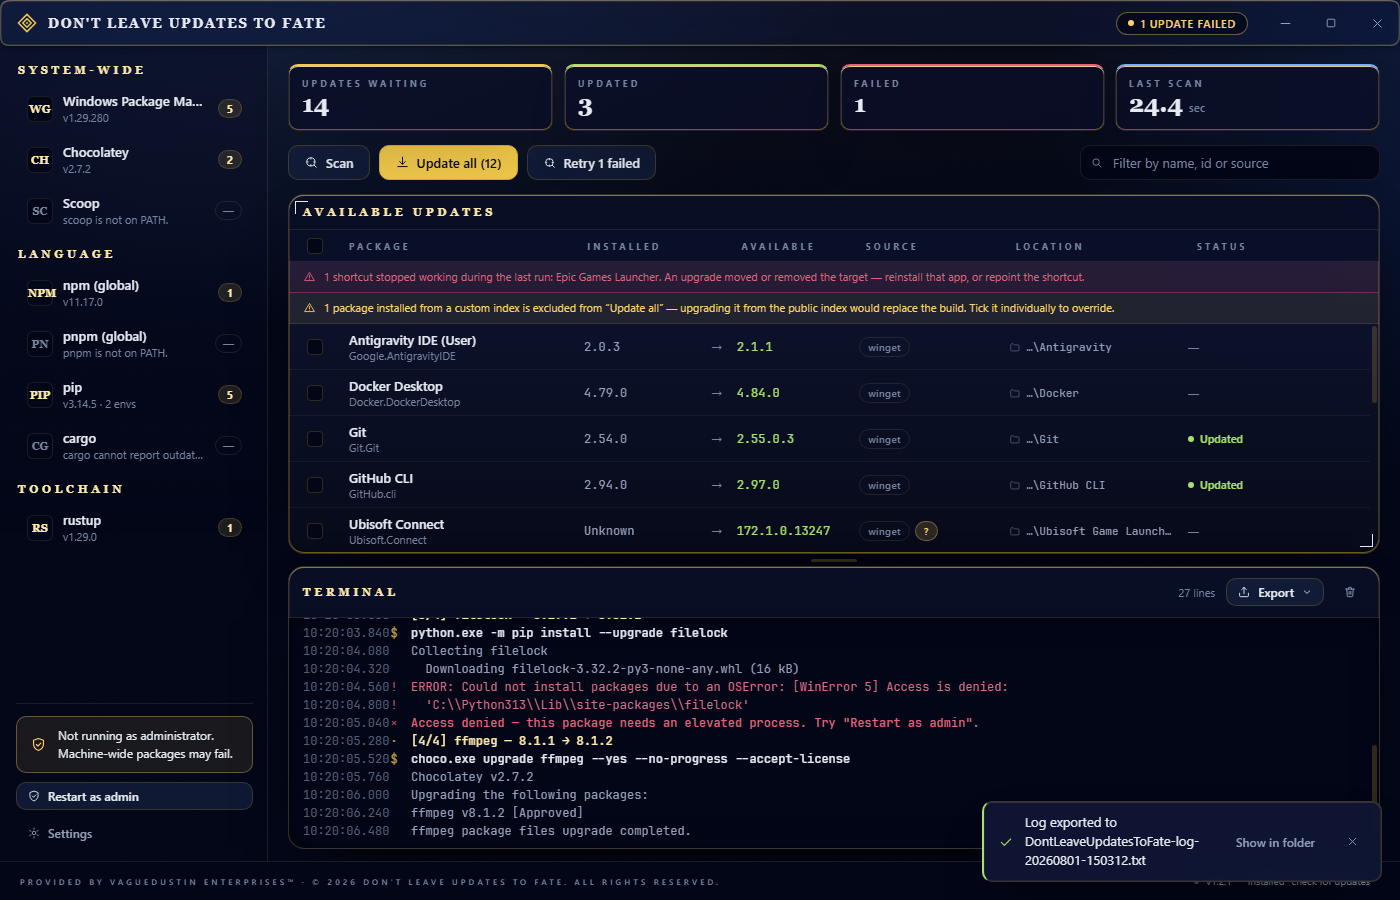
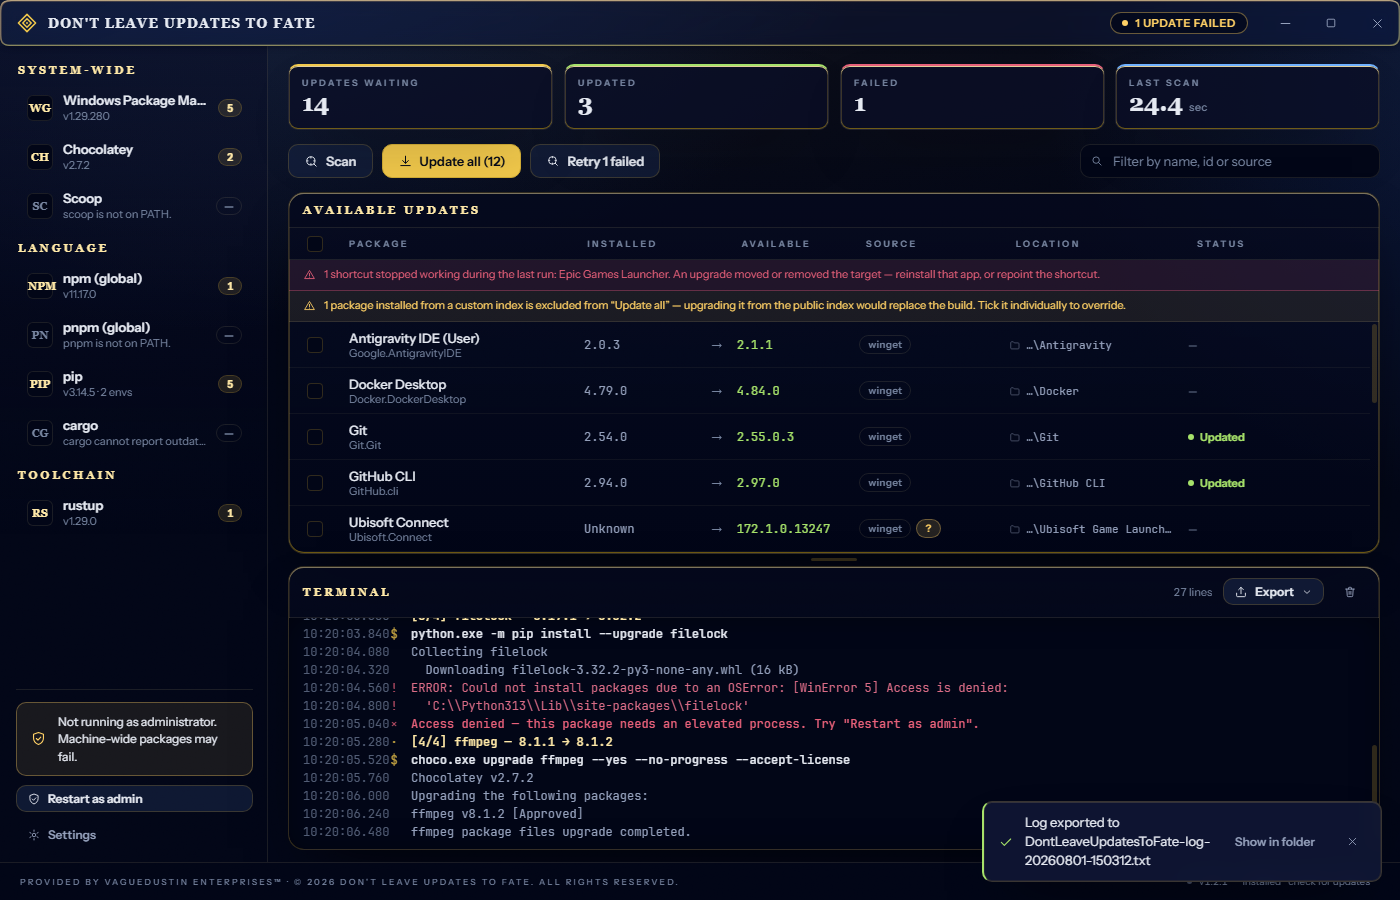
1.3.1 — a quieter highlight, a better sans, and more of the room showing
The specular was too strong and the reason was structural: the pointer ramped
the whole bevel layer's opacity from 0.4 to 1, so moving the cursor over the
settings sheet brightened the entire border of a 560px panel at once. It read as
the surface switching on rather than as light crossing glass. The bevel now
holds a constant opacity and only the highlight answers the pointer — 40% of the
width it was, at a third of the intensity. A specular you notice is too big.

The corner brackets are off the updates panel.

The sans is Instrument Sans. Inter is the best UI face on the web and also the
most anonymous; every Electron app looks like it. Instrument Sans is slightly
condensed, which is a real gain in a table holding eight columns at 940px, and
its uppercase has the character to carry the wide-tracked labels this app uses
everywhere. Cinzel stays for display because it IS the identity, JetBrains Mono
stays for the terminal, and Inter stays loaded as a fallback. Tracking tightened
from the brand default: a condensed face at 0.34em reads as spaced out rather
than engraved. Verified by computed style rather than by eye.

And the panels are translucent now — 92% down to the high sixties. The ambient
navy is three broad radials and most of what makes this look like a lit room
rather than a flat page, and the panels were hiding nearly all of it. Still no
backdrop-filter on them, and there must not be: a panel is an ancestor of a
[…]

diff --git a/src/renderer/src/styles/fate/tokens.css b/src/renderer/src/styles/fate/tokens.css
@@ -134,3 +134,45 @@
 :root[data-motion='off'] *::after {
   animation-timeline: auto !important;
 }
+
+/*
+  ── typography ────────────────────────────────────────────────────────────────────────────────────
+
+  Cinzel stays. It is the identity — an engraved Roman serif is exactly what "FATE" wants — and
+  JetBrains Mono stays for the terminal, where a transcript has to be a transcript.
+
+  What changes is the sans. Inter is the best-in-class UI face and also the most anonymous one on the
+  web; every Electron app looks like this. Instrument Sans is slightly condensed, which is a real gain
+  in a table that has to hold eight columns at 940px, and its uppercase has enough character to carry
+  the wide-tracked section labels that this app uses everywhere. Inter is kept loaded as the fallback
+  rather than removed, so nothing breaks if a glyph is missing.
+
+  The tracking values are tightened from the brand defaults: a condensed face at 0.34em reads as
+  spaced-out rather than engraved, and Cinzel at its default tracking is already generous.
+*/
+:root {
+  --font-sans: 'Instrument Sans Variable', 'Instrument Sans', 'Inter Variable', Inter, ui-sans-serif,
+    system-ui, 'Segoe UI', sans-serif;
+  --tracking-label: 0.26em;
+  --tracking-wordmark: 0.11em;
+}
+
+/*
+  ── transparency ──────────────────────────────────────────────────────────────────────────────────
+
+  The panels were 92-94% opaque, which means the ambient navy — three broad radials that are most of
+  what makes this look like a lit room rather than a flat page — was almost entirely hidden behind
+  them. Dropping them to the high sixties lets that through without touching legibility, because what
+  shows through is a gradient rather than content.
+
+  These are NOT glass. There is no backdrop-filter here and there must not be: a panel is an ancestor
+  of a scroller, and the split handle resizes both of them continuously during a drag. Transparency is
+  free; a readback on that surface is not. See THE CONTRACT in app.css.
+*/
+:root {
+  --gradient-panel-surface: linear-gradient(
+    180deg,
+    color-mix(in oklab, var(--surface-raised) 68%, transparent),
+    color-mix(in oklab, var(--surface-base) 74%, transparent)
+  );
+}

diff --git a/src/renderer/src/styles/fate/glass.css b/src/renderer/src/styles/fate/glass.css
@@ -116,13 +116,26 @@
     inset -1.5px -1.5px 0 0 var(--edge-chroma-b),
     inset 0 1px 0 var(--edge-hi),
     inset 0 -1px 0 var(--edge-lo);
+  /*
+    THE HIGHLIGHT IS SMALL AND DIM, and both of those were corrected after seeing it in use.
+
+    The first version was a 130%-wide radial at 34% gold, and it also ramped this whole layer's
+    opacity from 0.4 to 1 on hover. That second part was the real mistake: this element carries the
+    bevel and the rim light as well as the highlight, so moving the pointer over the settings sheet
+    brightened the entire border of a 560px panel at once. It read as the surface switching on rather
+    than as light moving across glass.
+
+    So the bevel now holds a constant opacity and only the gradient answers the pointer — 40% of the
+    width it was, at a third of the intensity. A specular you notice is too big; this one is meant to
+    be the reason the surface looks wet rather than something you look at.
+  */
   background: radial-gradient(
-    130% 100% at var(--fate-lx) var(--fate-ly),
-    color-mix(in oklab, var(--edge-spec) calc(var(--fate-lit) * 34%), transparent) 0%,
-    transparent 62%
+    52% 42% at var(--fate-lx) var(--fate-ly),
+    color-mix(in oklab, var(--edge-spec) calc(var(--fate-lit) * 11%), transparent) 0%,
+    transparent 70%
   );
-  opacity: calc(0.4 + var(--fate-lit) * 0.6);
-  transition: opacity var(--dur-react) var(--ease);
+  opacity: 0.72;
+  transition: background var(--dur-react) var(--ease);
 }
 
 /*

diff --git a/src/renderer/src/App.tsx b/src/renderer/src/App.tsx
@@ -120,7 +120,7 @@ export function App(): JSX.Element {
 
           <div className="split" ref={bodyRef}>
             <div className="split__top" style={{ flex: `${ui.splitRatio} 1 0%` }}>
-              <section className="panel engraved vd-corner-accents">
+              <section className="panel engraved">
                 <div className="panel__head">
                   <span className="panel__title">Available updates</span>
                   {ui.providerFilter && (

diff --git a/src/renderer/preview.tsx b/src/renderer/preview.tsx
@@ -8,6 +8,7 @@
 
 import '@fontsource-variable/cinzel';
 import '@fontsource-variable/inter';
+import '@fontsource-variable/instrument-sans';
 import '@fontsource-variable/jetbrains-mono';
 import './src/styles/brand/tokens.css';
 import './src/styles/brand/utilities.css';

diff --git a/src/renderer/src/main.tsx b/src/renderer/src/main.tsx
@@ -9,6 +9,7 @@
 
 import '@fontsource-variable/cinzel';
 import '@fontsource-variable/inter';
+import '@fontsource-variable/instrument-sans';
 import '@fontsource-variable/jetbrains-mono';
 
 import './styles/brand/tokens.css';
